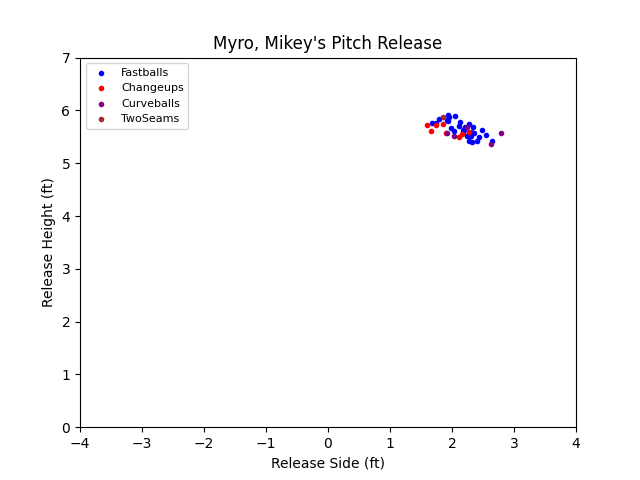
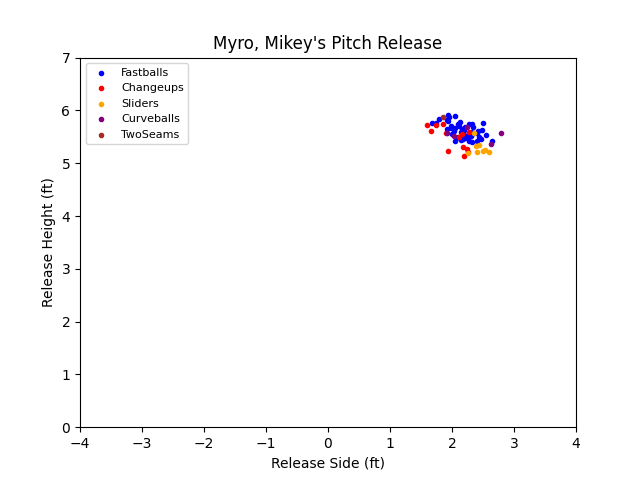
Added new data

Changed region(s): [[0.1562, 0.1875, 0.2812, 0.3125], [0.6875, 0.25, 0.7812, 0.3438]]

diff --git a/BucknellBaseballPitcherData.html b/BucknellBaseballPitcherData.html
@@ -19,7 +19,7 @@
 <img src="Schultz, JakeSpin.png" alt="PNG Image">
 <img src="Schultz, JakeRelease.png" alt="PNG Image">
 </body><body> 
-<p>Vucovich, Connor<br>Fastballs Thrown: 26<br>Average Fastball Velocity: 84.2<br>Max Fastball Velocity: 85.6<br>Average Fastball Spin Rate: 2001.9<br>Average Fastball Vertical Break: 16.3<br>Average Fastball Horizontal Break: -5.4<br>Fastball Strike Percentage: 65.4%<br><br>Cuverballs Thrown: 8<br>Average Cuverball Velocity: 72.9<br>Average Cuverball Spin Rate: 2774.8<br>Average Cuverball Vertical Break: -16.1<br>Average Cuverball Horizontal Break: 18.5<br>Cuverball Strike Percentage: 37.5%<br><br><br><br><br><br></p> 
+<p>Vucovich, Connor<br>Fastballs Thrown: 46<br>Average Fastball Velocity: 84.1<br>Max Fastball Velocity: 85.6<br>Average Fastball Spin Rate: 2011.5<br>Average Fastball Vertical Break: 15.2<br>Average Fastball Horizontal Break: -5.5<br>Fastball Strike Percentage: 63.0%<br><br>Cuverballs Thrown: 19<br>Average Cuverball Velocity: 72.2<br>Average Cuverball Spin Rate: 2676.6<br>Average Cuverball Vertical Break: -15.1<br>Average Cuverball Horizontal Break: 16.2<br>Cuverball Strike Percentage: 21.1%<br><br><br>Cutters Thrown: 1<br>Average Cutter Velocity: 72.1<br>Average Cutter Spin Rate: 2619.3<br>Average Cutter Vertical Break: -11.1<br>Average Cutter Horizontal Break: 13.2<br>Cutter Strike Percentage: 0.0%<br><br><br></p> 
 <img src="Vucovich, ConnorPitches.png" alt="PNG Image"> 
 <img src="Vucovich, ConnorMovement.png" alt="PNG Image">
 <img src="Vucovich, ConnorSpin.png" alt="PNG Image">
@@ -37,13 +37,13 @@
 <img src="O'Neill, TylerSpin.png" alt="PNG Image">
 <img src="O'Neill, TylerRelease.png" alt="PNG Image">
 </body><body> 
-<p>Delaney, Ryan<br>Fastballs Thrown: 31<br>Average Fastball Velocity: 80.4<br>Max Fastball Velocity: 83.1<br>Average Fastball Spin Rate: 1729.0<br>Average Fastball Vertical Break: 12.3<br>Average Fastball Horizontal Break: -13.3<br>Fastball Strike Percentage: 45.2%<br>Changeups Thrown: 8<br>Average Changeup Velocity: 73.2<br>Average Changeup Spin Rate: 1478.5<br>Average Changeup Vertical Break: 13.9<br>Average Changeup Horizontal Break: -13.0<br>Changeup Strike Percentage: 50.0%<br>Cuverballs Thrown: 8<br>Average Cuverball Velocity: 72.8<br>Average Cuverball Spin Rate: 2058.7<br>Average Cuverball Vertical Break: 5.5<br>Average Cuverball Horizontal Break: 3.1<br>Cuverball Strike Percentage: 25.0%<br><br><br><br><br><br></p> 
+<p>Delaney, Ryan<br>Fastballs Thrown: 51<br>Average Fastball Velocity: 80.9<br>Max Fastball Velocity: 84.0<br>Average Fastball Spin Rate: 1777.7<br>Average Fastball Vertical Break: 12.0<br>Average Fastball Horizontal Break: -13.2<br>Fastball Strike Percentage: 51.0%<br>Changeups Thrown: 13<br>Average Changeup Velocity: 74.1<br>Average Changeup Spin Rate: 1403.2<br>Average Changeup Vertical Break: 14.3<br>Average Changeup Horizontal Break: -10.4<br>Changeup Strike Percentage: 30.8%<br>Cuverballs Thrown: 8<br>Average Cuverball Velocity: 72.8<br>Average Cuverball Spin Rate: 2058.7<br>Average Cuverball Vertical Break: 5.5<br>Average Cuverball Horizontal Break: 3.1<br>Cuverball Strike Percentage: 25.0%<br>Sliders Thrown: 8<br>Average Slider Velocity: 74.0<br>Average Slider Spin Rate: 2142.3<br>Average Slider Vertical Break: 2.0<br>Average Slider Horizontal Break: 5.7<br>Slider Strike Percentage: 50.0%<br><br><br><br><br></p> 
 <img src="Delaney, RyanPitches.png" alt="PNG Image"> 
 <img src="Delaney, RyanMovement.png" alt="PNG Image">
 <img src="Delaney, RyanSpin.png" alt="PNG Image">
 <img src="Delaney, RyanRelease.png" alt="PNG Image">
 </body><body> 
-<p>Radtke, Dylan<br>Fastballs Thrown: 15<br>Average Fastball Velocity: 83.7<br>Max Fastball Velocity: 85.6<br>Average Fastball Spin Rate: 1638.9<br>Average Fastball Vertical Break: 10.1<br>Average Fastball Horizontal Break: 11.3<br>Fastball Strike Percentage: 26.7%<br>Changeups Thrown: 7<br>Average Changeup Velocity: 75.5<br>Average Changeup Spin Rate: 1354.1<br>Average Changeup Vertical Break: 2.3<br>Average Changeup Horizontal Break: 11.0<br>Changeup Strike Percentage: 28.6%<br><br>Sliders Thrown: 7<br>Average Slider Velocity: 76.0<br>Average Slider Spin Rate: 2006.7<br>Average Slider Vertical Break: 2.7<br>Average Slider Horizontal Break: -6.4<br>Slider Strike Percentage: 42.9%<br><br><br><br>TwoSeams Thrown: 12<br>Average TwoSeam Velocity: 81.0<br>Average TwoSeam Spin Rate: 1722.5<br>Average TwoSeam Vertical Break: 8.8<br>Average TwoSeam Horizontal Break: 11.6<br>TwoSeam Strike Percentage: 41.7%<br></p> 
+<p>Radtke, Dylan<br>Fastballs Thrown: 36<br>Average Fastball Velocity: 82.8<br>Max Fastball Velocity: 85.6<br>Average Fastball Spin Rate: 1698.4<br>Average Fastball Vertical Break: 9.6<br>Average Fastball Horizontal Break: 10.3<br>Fastball Strike Percentage: 27.8%<br>Changeups Thrown: 12<br>Average Changeup Velocity: 75.7<br>Average Changeup Spin Rate: 1351.2<br>Average Changeup Vertical Break: 5.6<br>Average Changeup Horizontal Break: 7.7<br>Changeup Strike Percentage: 25.0%<br>Cuverballs Thrown: 2<br>Average Cuverball Velocity: 68.2<br>Average Cuverball Spin Rate: 2044.5<br>Average Cuverball Vertical Break: -4.9<br>Average Cuverball Horizontal Break: -13.5<br>Cuverball Strike Percentage: 50.0%<br>Sliders Thrown: 10<br>Average Slider Velocity: 75.6<br>Average Slider Spin Rate: 1958.9<br>Average Slider Vertical Break: 2.8<br>Average Slider Horizontal Break: -6.1<br>Slider Strike Percentage: 40.0%<br><br><br><br>TwoSeams Thrown: 12<br>Average TwoSeam Velocity: 81.0<br>Average TwoSeam Spin Rate: 1722.5<br>Average TwoSeam Vertical Break: 8.8<br>Average TwoSeam Horizontal Break: 11.6<br>TwoSeam Strike Percentage: 41.7%<br></p> 
 <img src="Radtke, DylanPitches.png" alt="PNG Image"> 
 <img src="Radtke, DylanMovement.png" alt="PNG Image">
 <img src="Radtke, DylanSpin.png" alt="PNG Image">
@@ -55,7 +55,7 @@
 <img src="Mulvey, NickSpin.png" alt="PNG Image">
 <img src="Mulvey, NickRelease.png" alt="PNG Image">
 </body><body> 
-<p>Myro, Mikey<br>Fastballs Thrown: 31<br>Average Fastball Velocity: 84.4<br>Max Fastball Velocity: 86.0<br>Average Fastball Spin Rate: 2173.4<br>Average Fastball Vertical Break: 18.5<br>Average Fastball Horizontal Break: 13.4<br>Fastball Strike Percentage: 48.4%<br>Changeups Thrown: 8<br>Average Changeup Velocity: 77.9<br>Average Changeup Spin Rate: 1706.1<br>Average Changeup Vertical Break: 2.1<br>Average Changeup Horizontal Break: 15.6<br>Changeup Strike Percentage: 62.5%<br>Cuverballs Thrown: 5<br>Average Cuverball Velocity: 78.3<br>Average Cuverball Spin Rate: 2368.6<br>Average Cuverball Vertical Break: 2.6<br>Average Cuverball Horizontal Break: -9.5<br>Cuverball Strike Percentage: 20.0%<br><br><br><br><br>TwoSeams Thrown: 1<br>Average TwoSeam Velocity: 83.9<br>Average TwoSeam Spin Rate: 2290.9<br>Average TwoSeam Vertical Break: 16.5<br>Average TwoSeam Horizontal Break: 15.1<br>TwoSeam Strike Percentage: 0.0%<br></p> 
+<p>Myro, Mikey<br>Fastballs Thrown: 54<br>Average Fastball Velocity: 84.6<br>Max Fastball Velocity: 86.0<br>Average Fastball Spin Rate: 2178.2<br>Average Fastball Vertical Break: 17.8<br>Average Fastball Horizontal Break: 12.9<br>Fastball Strike Percentage: 53.7%<br>Changeups Thrown: 13<br>Average Changeup Velocity: 78.1<br>Average Changeup Spin Rate: 1615.3<br>Average Changeup Vertical Break: 1.9<br>Average Changeup Horizontal Break: 14.3<br>Changeup Strike Percentage: 46.2%<br>Cuverballs Thrown: 5<br>Average Cuverball Velocity: 78.3<br>Average Cuverball Spin Rate: 2368.6<br>Average Cuverball Vertical Break: 2.6<br>Average Cuverball Horizontal Break: -9.5<br>Cuverball Strike Percentage: 20.0%<br>Sliders Thrown: 8<br>Average Slider Velocity: 79.4<br>Average Slider Spin Rate: 2282.5<br>Average Slider Vertical Break: 5.4<br>Average Slider Horizontal Break: -3.2<br>Slider Strike Percentage: 25.0%<br><br><br><br>TwoSeams Thrown: 1<br>Average TwoSeam Velocity: 83.9<br>Average TwoSeam Spin Rate: 2290.9<br>Average TwoSeam Vertical Break: 16.5<br>Average TwoSeam Horizontal Break: 15.1<br>TwoSeam Strike Percentage: 0.0%<br></p> 
 <img src="Myro, MikeyPitches.png" alt="PNG Image"> 
 <img src="Myro, MikeyMovement.png" alt="PNG Image">
 <img src="Myro, MikeySpin.png" alt="PNG Image">
@@ -73,13 +73,13 @@
 <img src="Pavone, DanteSpin.png" alt="PNG Image">
 <img src="Pavone, DanteRelease.png" alt="PNG Image">
 </body><body> 
-<p>Reimer, Bryce<br>Fastballs Thrown: 13<br>Average Fastball Velocity: 82.5<br>Max Fastball Velocity: 83.7<br>Average Fastball Spin Rate: 1975.5<br>Average Fastball Vertical Break: 11.0<br>Average Fastball Horizontal Break: -13.5<br>Fastball Strike Percentage: 38.5%<br><br><br><br><br><br><br><br></p> 
+<p>Reimer, Bryce<br>Fastballs Thrown: 25<br>Average Fastball Velocity: 81.8<br>Max Fastball Velocity: 83.7<br>Average Fastball Spin Rate: 1977.1<br>Average Fastball Vertical Break: 9.6<br>Average Fastball Horizontal Break: -12.3<br>Fastball Strike Percentage: 60.0%<br><br>Cuverballs Thrown: 4<br>Average Cuverball Velocity: 72.8<br>Average Cuverball Spin Rate: 2069.3<br>Average Cuverball Vertical Break: -6.4<br>Average Cuverball Horizontal Break: 13.7<br>Cuverball Strike Percentage: 50.0%<br><br>Splitters Thrown: 5<br>Average Splitter Velocity: 76.8<br>Average Splitter Spin Rate: 1228.5<br>Average Splitter Vertical Break: 1.5<br>Average Splitter Horizontal Break: -11.4<br>Splitter Strike Percentage: 60.0%<br><br><br><br></p> 
 <img src="Reimer, BrycePitches.png" alt="PNG Image"> 
 <img src="Reimer, BryceMovement.png" alt="PNG Image">
 <img src="Reimer, BryceSpin.png" alt="PNG Image">
 <img src="Reimer, BryceRelease.png" alt="PNG Image">
 </body><body> 
-<p>Magovern, Ben<br>Fastballs Thrown: 18<br>Average Fastball Velocity: 84.0<br>Max Fastball Velocity: 86.2<br>Average Fastball Spin Rate: 1922.8<br>Average Fastball Vertical Break: 13.6<br>Average Fastball Horizontal Break: -13.1<br>Fastball Strike Percentage: 66.7%<br><br><br><br><br><br><br><br></p> 
+<p>Magovern, Ben<br>Fastballs Thrown: 35<br>Average Fastball Velocity: 85.6<br>Max Fastball Velocity: 88.7<br>Average Fastball Spin Rate: 2025.2<br>Average Fastball Vertical Break: 14.7<br>Average Fastball Horizontal Break: -13.2<br>Fastball Strike Percentage: 62.9%<br>Changeups Thrown: 2<br>Average Changeup Velocity: 79.9<br>Average Changeup Spin Rate: 1726.7<br>Average Changeup Vertical Break: 9.0<br>Average Changeup Horizontal Break: -12.8<br>Changeup Strike Percentage: 100.0%<br><br>Sliders Thrown: 12<br>Average Slider Velocity: 78.2<br>Average Slider Spin Rate: 2034.3<br>Average Slider Vertical Break: -0.6<br>Average Slider Horizontal Break: 7.7<br>Slider Strike Percentage: 50.0%<br><br><br><br><br></p> 
 <img src="Magovern, BenPitches.png" alt="PNG Image"> 
 <img src="Magovern, BenMovement.png" alt="PNG Image">
 <img src="Magovern, BenSpin.png" alt="PNG Image">

diff --git a/filereader.py b/filereader.py
@@ -35,14 +35,15 @@ def readCSV(csvfileString):
       nameIn = 1
       pitcherLoc = 0
       for x in range(len(pitchers)):
-        if pitchers[x].name == row[5]:
-          nameIn = 0
-          pitcherLoc = x
-      if (nameIn == 1) and (i != 0):
+        if len(row) != 0:
+          if pitchers[x].name == row[5]:
+            nameIn = 0
+            pitcherLoc = x
+      if (nameIn == 1) and (i != 0) and (len(row) != 0):
         thrower = Pitcher(row[5], row[7])
         pitchers.append(thrower)
         pitcherLoc = len(pitchers) - 1
-      if (i != 0):
+      if (i != 0) and (len(row) != 0):
         pitchers[pitcherLoc].insertPitch(readPitch(row))
         
       i += 1
@@ -51,6 +52,7 @@ readCSV("20230829-DepewField-Private-2_unverified.csv")
 readCSV("20230830-DepewField-Private-1_unverified.csv")
 readCSV("20230830-DepewField-Private-2_unverified.csv")
 readCSV("20230909-DepewField-Private-1_unverified.csv")
+readCSV("20230916-DepewField-Private-2_unverified.csv")
 
 def writePitcherData(player):
   """Writes the averages of all of the pitchers data to a text document"""
